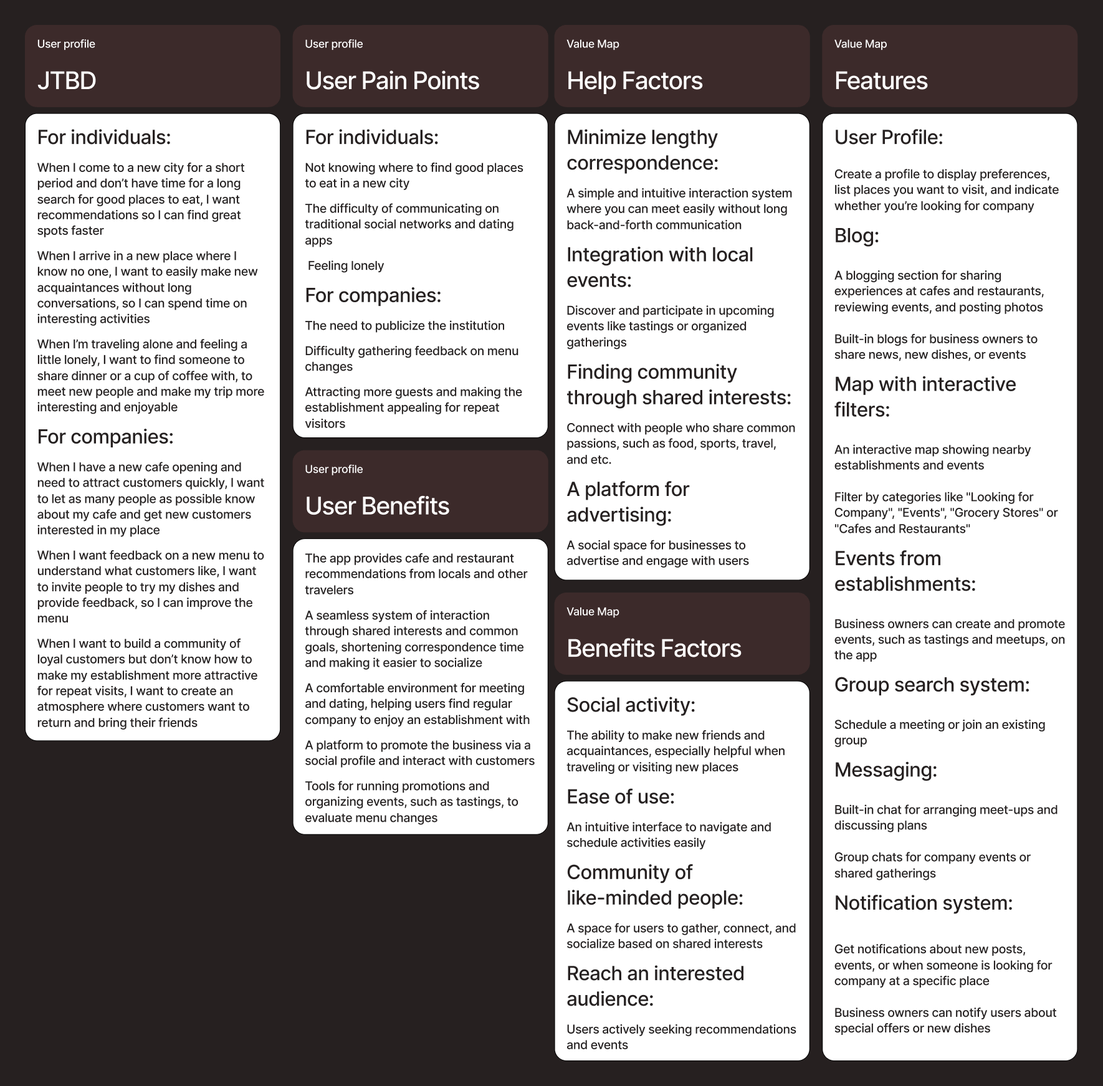
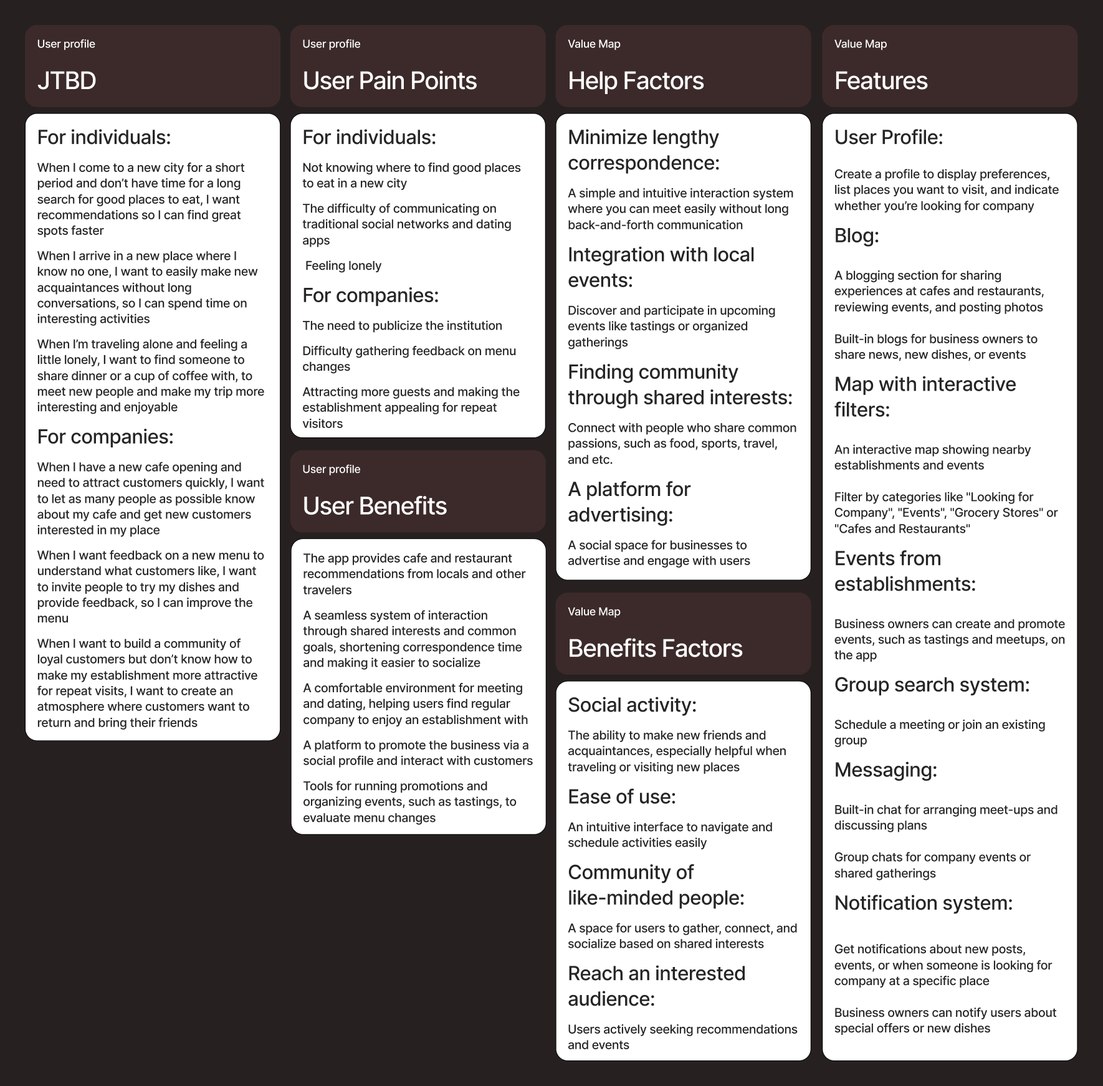
feat: language switch

Changed region(s): [[0.2486, 0.1239, 0.7458, 0.9914], [0.2797, 0.031, 0.435, 0.0929], [0.5282, 0.031, 0.6215, 0.0929]]

diff --git a/foodquest-more/index-foodquest-ru.html b/foodquest-more/index-foodquest-ru.html
@@ -1,9 +1,9 @@
 <!DOCTYPE html>
-<html lang="en">
+<html lang="ru">
 <head>
     <meta charset="UTF-8">
     <meta name="viewport" content="width=device-width, initial-scale=1.0">
-    <title>Foodquest Project Process</title>
+    <title>Foodquest Подробнее</title>
     <link rel="stylesheet" href="style-foodquest.css">
 
     <link rel="icon" href="..//assets/ico/icon.ico" type="image/x-icon">
@@ -22,24 +22,24 @@
         <nav class="nav">
             <ul class="nav-list">
                 <li class="logo nav-item">
-                    <a href="" class="nav-link" data-page="">Elizaveta Sashenkova</a>
+                    <a href="" class="nav-link" data-page="">Елизавета Сашенкова</a>
                 </li>
 
                 <li class="nav-item">
-                    <a href="../index.html" class="nav-link" data-page="../index.html">Work</a>
+                    <a href="../index-ru.html" class="nav-link" data-page="../index-ru.html">Проекты</a>
                 </li>
 
                 <li class="nav-item">
-                    <a href="../assets/cv/Elizaveta-Sashenkova-UX-UI-Designer-CV.pdf" class="nav-link" target="_blank">CV</a>
+                    <a href="../assets/cv/Елизавета Сашенкова-UX-UI Designer-Резюме.pdf" class="nav-link" target="_blank">Резюме</a>
                 </li>
 
                 <li class="nav-item">
-                    <a href="javascript:void(0);" id="menuLink" class="contact-button nav-link">Contacts</a>
+                    <a href="javascript:void(0);" id="menuLink" class="contact-button nav-link">Контакты</a>
 
                     <div id="menu">
                         <ul class="menu-block">
                             <li class="menu-item">
-                                <a href="mailto:elisa.sashenkova@gmail.com" class="menu-link" target="_blank">Email</a>
+                                <a href="mailto:elisa.sashenkova@gmail.com" class="menu-link" target="_blank">Почта</a>
                             </li>
                             <li class="menu-item">
                                 <a href="https://www.linkedin.com/in/elisash/" class="menu-link" target="_blank">Linkedin</a>
@@ -61,17 +61,17 @@
         <div class="container">
             <div class="sidebar">
                 <div class="sidebar-block">
-                    <a class="arrow-back" href="../index.html">
+                    <a class="arrow-back" href="../index-ru.html">
                         <span class="arrow">&larr;</span>
                     </a>
             
                     <div class="sidebar-info">
                         <h1 class="title">Foodquest</h1>
-                        <p class="description">The app that helps users find friendship and embark on gastronomic adventures.</p>  
+                        <p class="description">Приложение, которое помогает пользователям найти друзей и гастрономические приключения.</p>  
                         <div class="tag-block">
-                            <p class="tag">UX/UI App</p>
-                            <p class="tag">Brand Identity</p>
-                            <p class="tag">Landing page</p>
+                            <p class="tag">UX/UI Приложения</p>
+                            <p class="tag">Айдентика бренда</p>
+                            <p class="tag">Лендинг</p>
                         </div>               
                     </div>
                 </div>
@@ -83,23 +83,23 @@
                     <div class="text-block">
                         <div class="content-block-long">
                             <div class="description-content">
-                                <h2 class="description-main">Project Idea</h2>
+                                <h2 class="description-main">Идея проекта</h2>
                             </div>
                         </div>
 
                         <div class="content-block-short">
                             <div class="description-content-short">
-                                <h3 class="description-main">This app is to help with two problems: Where can I meet new friends? Where can I find good food?</h3>
+                                <h3 class="description-main">Это приложение помогает решить две проблемы: Где встретить новых друзей? Где найти вкусную еду?</h3>
                             </div>
 
                             <div class="description-content-short">
-                               <p class="description-main">The app connects food lovers, giving them the opportunity to get to know each other better. Instead of writing, "Hi, I would like to meet you. Can you tell me about yourself?" you can say, "Hi! I&rsquo;d also like to visit this coffee shop. Why don&rsquo;t we go together?"</p>
+                               <p class="description-main">Приложение объединяет любителей гастрономии, давая им возможность найти новых друзей. Вместо того чтобы писать: «Привет, я хотел бы с тобой познакомиться. Можешь рассказать о себе?», вы можете написать: «Привет! Я тоже хотел бы посетить эту кофейню. Может сходим вместе?».</p>
                             </div>
                         </div>
 
                         <div class="content-block-short">
                             <div class="description-content-short-right">
-                                <p class="description-main">+ Additionally, since the meeting places are local establishments, the app also caters to business owners by offering opportunities to advertise and attract new customers.</p>
+                                <p class="description-main">+ Кроме того, поскольку местом встречи являются местные заведения, приложение также ориентировано на владельцев бизнеса, предлагая возможности для рекламы и привлечения новых клиентов.</p>
                             </div>
                         </div>
                     </div>
@@ -107,11 +107,11 @@
                 <div class="content-border">
                     <div class="content-block-short-img">
                         <div id="img-visibility" class="content-img">
-                            <img src="assets/img/cover-1.png" alt="The left part of the cover with the app mascots">
+                            <img src="assets/img/cover-1.png" alt="Левая часть обложки с персонажами приложения">
                         </div>
 
                         <div class="content-img">
-                            <img src="assets/img/cover-2.png" alt="The right part of the cover with the app mascots">
+                            <img src="assets/img/cover-2.png" alt="Правая часть обложки с персонажами приложения">
                         </div>
                     </div>
                 </div>
@@ -121,20 +121,20 @@
                     <div class="text-block">
                         <div class="content-block-long">
                             <div class="description-content">
-                               <h2 class="description-main">Research</h2>
+                               <h2 class="description-main">Исследование пользователя</h2>
                             </div>
                         </div>
 
                         <div class="content-block-short">
                             <div class="description-content-short-right">
-                                <p class="description-main">I aimed to create a community-focused application that brings people together through their shared love of gastronomy. To achieve this, I analyzed and modeled scenarios involving communication between individuals and businesses, as well as businesses and their customers.</p>
+                                <p class="description-main">Я хотела создать приложение, ориентированное на сообщество, которое объединит людей благодаря их общей любви к гастрономии. Для этого я проанализировала профили пользователей и вывела из этого необходимые фичи для приложения.</p>
                             </div>
                         </div>
                     </div>
                 </div>
                 <div class="content-border">
                     <div class="content-img">
-                        <img src="assets/img/jtbd.png" alt="The user research">
+                        <img src="assets/img/jtbd-ru.png" alt="Исследование пользователя">
                     </div>
                 </div>
 
@@ -143,17 +143,17 @@
                     <div class="text-block">
                         <div class="content-block-long">
                             <div class="description-content">
-                                <h2 class="description-main">Concept</h2>
+                                <h2 class="description-main">Концепция</h2>
                             </div>
                         </div>
 
                         <div class="content-block-short">
                             <div class="description-content-short">
-                                <h3 class="description-main">A game-format adventure featuring adventurers, bosses, and quests.</h3>
+                                <h3 class="description-main">Приключение в игровом формате с авантюристами, боссами и квестами.</h3>
                             </div>
 
                             <div class="description-content-short">
-                                <p class="description-main">I wanted to create a brand that evokes the atmosphere of a cozy adventure. When I think of a gastronomic journey, I imagine a warm, bustling tavern where an adventurer arrives after a long journey. That&rsquo;s why I chose to base the concept on a game format and reflect it in the brand identity.</p>
+                                <p class="description-main">Задачей было создать бренд, вызывающий атмосферу уютного приключения. Когда я думаю о гастрономическом путешествии, я представляю себе теплую, шумную таверну, куда заходит авантюрист после долгой дороги. Поэтому я решила взять концепцию игры и отразить ее в фирменном стиле.</p>
                             </div>
                         </div>
                     </div>
@@ -161,7 +161,7 @@
                 <div class="content-border">
                     <div class="content-block-long">
                         <div class="content-img">
-                            <img src="assets/img/reference.png" alt="A reference for the concept">
+                            <img src="assets/img/reference.png" alt="Референс">
                         </div>
                     </div>
                 </div>
@@ -171,20 +171,20 @@
                     <div class="text-block">
                         <div class="content-block-long">
                             <div class="description-content">
-                                <h2 class="description-main">Identity Elements</h2>
+                                <h2 class="description-main">Элементы айдентики</h2>
                             </div>
                         </div>
 
                         <div class="content-block-short">
                             <div class="description-content-short-right">
-                                <p class="description-main">The fonts maintain a modern, minimalist interface while ensuring excellent readability. The color palette combines warmth and friendliness with soft, inviting shades, while contrasting bright elements add a sense of adventure and creativity.</p>
+                                <p class="description-main">Шрифты поддерживают современный, минималистичный интерфейс, обеспечивая при этом отличную читаемость. Цветовая палитра сочетает в себе теплоту и дружелюбие с мягкими, привлекательными оттенками, а контрастные яркие элементы добавляют ощущение приключений.</p>
                             </div>
                         </div>
 
                         <div class="content-block-short">
                             <div class="description-content-short-right">
                                 <div class="content-img-short">
-                                    <img src="assets/img/fonts-colors.png" alt="Fonts and colors">
+                                    <img src="assets/img/fonts-colors.png" alt="Шрифты и цвета">
                                 </div>
                             </div>
                         </div>
@@ -192,7 +192,7 @@
                     <div class="text-block">
                         <div class="content-block-short">
                             <div class="description-content-short">
-                                <p class="description-main">The name and logo are simple in structure. The logo as well as the name consists of two words, the combination of the first letters of the two words resembles a view of the road from above, which from different points leads to one quest.</p>
+                                <p class="description-main">Название и логотип имеют простую структуру. Логотип, как и название, состоит из двух слов, сочетание первых букв которых напоминает вид на дорогу сверху, которая с разных точек ведет к одному квесту.</p>
                             </div>
                         </div>
 
@@ -200,7 +200,7 @@
                         <div class="content-block-short">
                             <div class="description-content-short">
                                 <div class="content-img-short">
-                                    <img src="assets/img/logo.png" alt="The logo">
+                                    <img src="assets/img/logo.png" alt="Логотип">
                                 </div>
                             </div>
                         </div>
@@ -208,14 +208,14 @@
                     <div class="text-block">
                         <div class="content-block-short">
                             <div class="description-content-short-right">
-                                <p class="description-main">The characters themselves are similar in appearance to the characters in platformer games. The average user is depicted as an adventurer, and the company owner as a game boss.</p>
+                                <p class="description-main">Сами персонажи внешне похожи на героев игр-платформеров. Обычный пользователь изображен как авантюрист, а владелец бизнеса как игровой босс.</p>
                             </div>
                         </div>
 
                         <div class="content-block-short">
                             <div class="description-content-short-right">
                                 <div class="content-img-short">
-                                    <img src="assets/img/characters.png" alt="App mascots">
+                                    <img src="assets/img/characters.png" alt="Персонажи">
                                 </div>
                             </div>
                         </div>
@@ -224,11 +224,11 @@
                 <div class="content-border">
                     <div class="content-block-short-img">
                         <div id="img-visibility" class="content-img">
-                            <img src="assets/img/cover-identity-1.png" alt="The left part of the cover with the app mascots">
+                            <img src="assets/img/cover-identity-1.png" alt="Левая часть обложки с персонажами">
                         </div>
 
                         <div class="content-img">
-                            <img src="assets/img/cover-identity-2.png" alt="The right part of the cover with the app mascots">
+                            <img src="assets/img/cover-identity-2.png" alt="Правая часть обложки с персонажами">
                         </div>
                     </div>
                 </div>
@@ -238,20 +238,20 @@
                     <div class="text-block">
                         <div class="content-block-long">
                             <div class="description-content">
-                                <h2 class="description-main">User Flow</h2>
+                                <h2 class="description-main">Путь пользователя</h2>
                             </div>
                         </div>
 
                         <div class="content-block-short">
                             <div class="description-content-short-right">
-                                <p class="description-main">I identified the user&rsquo;s steps and the main actions they take on the different screens of the application. It turned out that despite the two types of users, their user flow is the same. However, there are differences in the use of functions and their frequency.</p>
+                                <p class="description-main">Я определила шаги пользователя и основные действия, которые он совершает на разных экранах приложения. Оказалось, что, несмотря на наличие двух типов пользователей, их пользовательский поток одинаков. Однако есть различия в использовании функций и их частоте.</p>
                             </div>
                         </div>
                     </div>
                 </div>
                 <div class="content-border">
                     <div class="content-img">
-                        <img src="assets/img/user-flow.png" alt="The user flow">
+                        <img src="assets/img/user-flow.png" alt="Путь пользователя">
                     </div>
                 </div>
 
@@ -259,21 +259,21 @@
                 <div class="content-border">
                     <div class="content-block-long">
                         <div class="description-content">
-                            <h2 class="description-main">App Screens</h2>
+                            <h2 class="description-main">Экраны приложения</h2>
                         </div>
                     </div>
 
                     <div class="text-block">
                         <div class="content-block-short">
                             <div class="description-content-short-right">
-                                <p class="description-main">I designed the screens in a dark color theme using colors from the identity. But the app also has the more familiar standard dark and light themes.</p>
+                                <p class="description-main">Реализованный дизайн экранов в темной цветовой гамме, использующий цвета из айдентики бренда. Но в приложении есть и более привычные стандартные темная и светлая темы.</p>
                             </div>
                         </div>
 
                         <div class="content-block-short">
                             <div class="description-content-short-right">
                                 <div class="content-img-short">
-                                    <img src="assets/img/color-options.png" alt="Сolor options">
+                                    <img src="assets/img/color-options.png" alt="Цветовые варианты тем">
                                 </div>
                             </div>
                         </div>
@@ -281,11 +281,11 @@
                 </div>
                 <div class="content-border">
                     <div class="content-img">
-                        <img src="assets/img/wirframes-app.png" alt="Warframes application screens">
+                        <img src="assets/img/wirframes-app.png" alt="Варфреймы экранов приложения">
                     </div>
 
                     <div class="content-img">
-                        <img src="assets/img/ui-app.png" alt="UI application screens">
+                        <img src="assets/img/ui-app.png" alt="UI экраны приложения">
                     </div>
                 </div>
 
@@ -294,13 +294,13 @@
                     <div class="text-block">
                         <div class="content-block-long">
                             <div class="description-content">
-                                <h2 class="description-main">Landing Page</h2>
+                                <h2 class="description-main">Лендинг</h2>
                             </div>
                         </div>
 
                         <div class="content-block-short">
                             <div class="description-content-short-right">
-                                <p class="description-main">I created a landing page whose target action is to get the user to download the app. I also have a <a href="https://github.com/llS634/foodquest-app-landing" id="repository">repository</a> on GitHub where I tested the adaptability of some layout elements for different resolutions. It's not a finished site, but more of a platform for testing how certain layout design decisions work.</p>
+                                <p class="description-main">Цель лендинга — загрузка приложения пользователем. У меня также есть <a href="https://github.com/llS634/foodquest-app-landing" id="repository">репозитарий</a> на GitHub, где я тестировала адаптивность некоторых элементов макета для разных разрешений. Это не готовый сайт, а скорее платформа для тестирования того, как работают определенные дизайнерские решения.</p>
                             </div>
                         </div>
 
